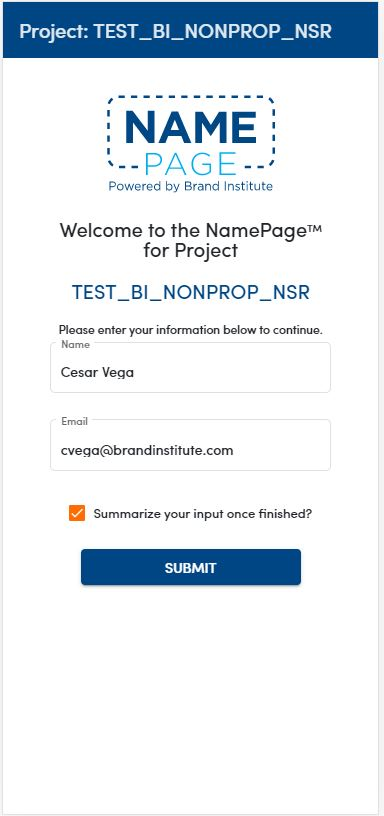
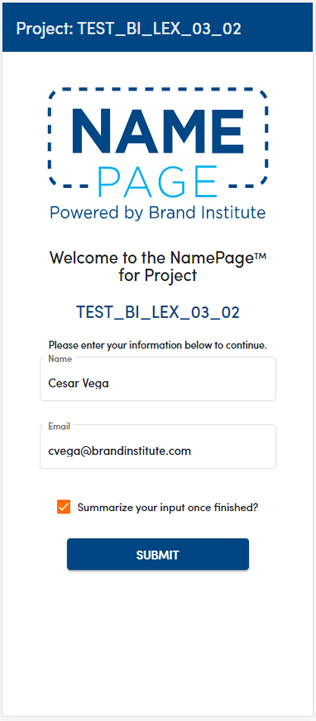
bsr mobile card eleveation center body like a cell phone looking

diff --git a/src/app/bsr/bsr.component.ts b/src/app/bsr/bsr.component.ts
@@ -34,6 +34,8 @@ export class BsrComponent implements OnInit {
   isSearching = false;
   overview = false;
   isNSR = false;
+  isScreenButton = true;
+  isScreeningNames = false;
   slideBackground = 'url(http://www.bipresents.com/';
   baseBackgroundUrl = 'url(http://www.bipresents.com/';
   myControl = new FormControl();
@@ -346,18 +348,21 @@ export class BsrComponent implements OnInit {
       this.myMaxRightWith = '-1px';
       this.nameBox = false;
       this.nameBoxB = false;
+      this.isScreenButton = false;
     } else if (value <= 51 && value > 25) {
       this.myMaxWith = '925px';
       this.myMaxRWith = '340px';
       this.myMaxRightWith = '8px';
       this.nameBox = true;
       this.nameBoxB = true;
+      this.isScreenButton = true;
     } else if (value <= 25) {
       this.myMaxWith = '335px';
       this.myMaxRWith = '636px';
       this.myMaxRightWith = '352px';
       this.nameBox = true;
       this.nameBoxB = false;
+      this.isScreenButton = true;
     }
   }
 
@@ -383,8 +388,18 @@ export class BsrComponent implements OnInit {
     } else {
       this.postItListTheme = 'post-it-list-theme'
     }
-    localStorage.setItem('post-it-list-theme', this.postItListTheme)
+    localStorage.setItem('post-it-list-theme', this.postItListTheme);
+    let audio = new Audio();
+    audio.src = "../../../assets/sound/tap.wav";
+    audio.volume = 0.2;
+    audio.load();
+    audio.play();
   }
+
+  screenNames(){
+    this.isScreeningNames = !this.isScreeningNames;
+  }
+
 }
 
 
@@ -573,38 +588,6 @@ export class editPost {
         this.dataSource.push({ position: counter, synonyms: synonym.word, weight: 1.0079, symbol: 'H' })
         counter++;
       });
-      // this.dataSource = [
-      //   {position: 1, synonyms: 'Hydrogen', weight: 1.0079, symbol: 'H'},
-      //   {position: 2, synonyms: 'Helium', weight: 4.0026, symbol: 'He'},
-      //   {position: 3, synonyms: 'Lithium', weight: 6.941, symbol: 'Li'},
-      //   {position: 4, synonyms: 'Beryllium', weight: 9.0122, symbol: 'Be'},
-      //   {position: 5, synonyms: 'Boron', weight: 10.811, symbol: 'B'},
-      //   {position: 6, synonyms: 'Carbon', weight: 12.0107, symbol: 'C'},
-      //   {position: 7, synonyms: 'Nitrogen', weight: 14.0067, symbol: 'N'},
-      //   {position: 8, synonyms: 'Oxygen', weight: 15.9994, symbol: 'O'},
-      //   {position: 9, synonyms: 'Fluorine', weight: 18.9984, symbol: 'F'},
-      //   {position: 10, synonyms: 'Neon', weight: 20.1797, symbol: 'Ne'},
-      //   {position: 1, synonyms: 'Hydrogen', weight: 1.0079, symbol: 'H'},
-      //   {position: 2, synonyms: 'Helium', weight: 4.0026, symbol: 'He'},
-      //   {position: 3, synonyms: 'Lithium', weight: 6.941, symbol: 'Li'},
-      //   {position: 4, synonyms: 'Beryllium', weight: 9.0122, symbol: 'Be'},
-      //   {position: 5, synonyms: 'Boron', weight: 10.811, symbol: 'B'},
-      //   {position: 6, synonyms: 'Carbon', weight: 12.0107, symbol: 'C'},
-      //   {position: 7, synonyms: 'Nitrogen', weight: 14.0067, symbol: 'N'},
-      //   {position: 8, synonyms: 'Oxygen', weight: 15.9994, symbol: 'O'},
-      //   {position: 9, synonyms: 'Fluorine', weight: 18.9984, symbol: 'F'},
-      //   {position: 10, synonyms: 'Neon', weight: 20.1797, symbol: 'Ne'},
-      //   {position: 1, synonyms: 'Hydrogen', weight: 1.0079, symbol: 'H'},
-      //   {position: 2, synonyms: 'Helium', weight: 4.0026, symbol: 'He'},
-      //   {position: 3, synonyms: 'Lithium', weight: 6.941, symbol: 'Li'},
-      //   {position: 4, synonyms: 'Beryllium', weight: 9.0122, symbol: 'Be'},
-      //   {position: 5, synonyms: 'Boron', weight: 10.811, symbol: 'B'},
-      //   {position: 6, synonyms: 'Carbon', weight: 12.0107, symbol: 'C'},
-      //   {position: 7, synonyms: 'Nitrogen', weight: 14.0067, symbol: 'N'},
-      //   {position: 8, synonyms: 'Oxygen', weight: 15.9994, symbol: 'O'},
-      //   {position: 9, synonyms: 'Fluorine', weight: 18.9984, symbol: 'F'},
-      //   {position: 10, synonyms: 'Neon', weight: 20.1797, symbol: 'Ne'},
-      // ]
       console.log(res);
     })
   }

diff --git a/src/app/bsr/bsr.component.html b/src/app/bsr/bsr.component.html
@@ -90,11 +90,13 @@
 
         <div class="container">
           <div class="row">
+
             <div class="col-md-12">
               <!-- Brandstomr and Names toolbar -->
               <mat-toolbar class="toptoolbar mat-elevation-z4" color="primary">
                 <div class="row">
-                  <div (click)="theme()" class="col brandstorm" style="color: white; font-size: 40px;font-family: Arial">
+                  <div (click)="theme()" class="col brandstorm"
+                    style="color: white; font-size: 40px;font-family: Arial">
                     Brandstorm
                   </div>
                   <div class="col" (click)="toggleNamebox()"
@@ -102,6 +104,7 @@
                     [matTooltip]="'Names Create '+ nameCandidates.length" matTooltipPosition="right">
                     Names <span *ngIf="nameCandidates.length > 0">{{':'+nameCandidates.length}}</span>
                   </div>
+                  <button *ngIf="isScreenButton" (click)="screenNames()" mat-raised-button class="screen-button">screen</button>
                 </div>
               </mat-toolbar>
             </div>
@@ -150,14 +153,20 @@
                   (input)="onInputChange($event)"></mat-slider>
                 <div class="col-md-4" *ngIf="nameBox && nameBoxB">
                   <!-- NAMES  nameCandidates BOX -->
-                  <button mat-button class="screen-button">screen</button>
+                  <!-- <button mat-button class="screen-button">screen</button> -->
                   <div class="names-container bounceOut" [ngStyle]="{'max-width': myMaxRWith  }">
-                    <div *ngFor="let  item of nameCandidates; let i = index">
-                      <span (dblclick)="openDialog(item, 'deleteName')"
-                        style="font-size:22px;margin: 10px;cursor: pointer;overflow: scroll;" [matTooltip]="item.Source"
-                        matTooltipPosition="right">
-                        {{item.Name}}
+                    <div *ngFor="let  nameCandidate of nameCandidates; let i = index">
+                      <span *ngIf="!isScreeningNames" (dblclick)="openDialog(nameCandidate, 'deleteName')"
+                        style="font-size:22px;margin: 10px;cursor: pointer;overflow: scroll;"
+                        [matTooltip]="nameCandidate.Source" matTooltipPosition="right">
+                        {{nameCandidate.Name}}
                       </span>
+                      <span *ngIf="isScreeningNames" [innerHTML]="nameCandidate.html.replaceAll('\\',' ')"
+                        (dblclick)="openDialog(nameCandidate, 'deleteName')"
+                        style="font-size:22px;margin: 10px;cursor: pointer;overflow: scroll;"
+                        [matTooltip]="nameCandidate.Source" matTooltipPosition="right">
+                      </span>
+                      <div style="border-bottom: rgba(0,0,0,.12) 1px solid;width: 100%;text-align: center;"></div>
                     </div>
                   </div>
 
@@ -181,7 +190,7 @@
 
                 <div class="col-md-4 " *ngIf="!nameBox && nameBoxB">
                   <!-- NAMES BOX -->
-                  <button mat-button class="screen-button">screen</button>
+                  <!-- <button mat-button class="screen-button">screen</button> -->
                   <div class="names-container3 bounceIn">
                     <div *ngFor="let  item of nameCandidates; let i = index">
                       <span (dblclick)="openDialog(item, 'deleteName')"
@@ -211,7 +220,7 @@
 
                 <div class="col-md-4 " *ngIf="nameBox && !nameBoxB">
                   <!-- NAMES BOX -->
-                  <button mat-button class="screen-button">screen</button>
+                  <!-- <button mat-button class="screen-button">screen</button> -->
                   <div class="names-container2 bounceIn">
                     <div *ngFor="let  item of nameCandidates; let i = index">
                       <span (dblclick)="openDialog(item, 'deleteName')"

diff --git a/src/app/bsr/editPost-it.html b/src/app/bsr/editPost-it.html
@@ -30,13 +30,14 @@
                         color="success" aria-label="icon">
                         <mat-icon>check</mat-icon>
                     </button><br>
-                    <div style="color: #000;">delete</div>
+                   
                     <button *ngIf="!isDeleting && !isDeletingName" (click)="buttonOption('deleteName')"
                         class="refreshbutton" mat-mini-fab
                         style="color: white;background-color: red;padding: 4px;outline: none;" color="success"
                         aria-label="icon">
                         <mat-icon>delete</mat-icon>
                     </button>
+                    <div style="color: #000;">delete</div>
                 </div>
             </div>
         </div>
@@ -44,14 +45,14 @@
 
     </div>
     <!-- MOBILE INFO PICTURE DISPLAY -->
-    <div *ngIf="isMobileInfo" style="height: 300px;text-align: center;font-size-adjust: 100px;">
+    <div *ngIf="isMobileInfo">
 
         <div class="row" layout-align="center center">
 
-            <div flex="" class="text-center flex" style="margin:0 10px">
+            <div flex="" class="text-center flex" style="margin:0 18px">
                 <p>1. Access
                     www.mynamepage.com/ti823</p>
-                <img class="instruction-style" src="assets/img/bsr/login_page.png" alt="Login">
+                <img class="instruction-style mat-elevation-z4" src="assets/img/bsr/login_page.JPG" alt="Login">
             </div>
             <div flex="" class="text-center flex" style="margin-right:10px">
                 <p>2.
@@ -78,7 +79,7 @@
 
         <div ng-hide="!bsrMenubarController.isItNSR" class="nonprop-name-rule-style" aria-hidden="false">
 
-            <h4>
+            <!-- <h4>
                 The letters h, j, k, w, and y should be avoided
             </h4>
 
@@ -165,7 +166,7 @@
                 <li type="square" style="padding-left:30px;">
                     the name of the manufacturer
                 </li>
-            </ul>
+            </ul> -->
         </div>
     </div>
 

diff --git a/src/app/bsr-mobile/bsr-mobile.component.scss b/src/app/bsr-mobile/bsr-mobile.component.scss
@@ -12,6 +12,12 @@
         align-items: center;
         white-space: nowrap;
     }
+    .bsr-mobile-container {
+        max-width: 400px;
+        position: relative;
+        min-height: 811px;
+        top: 100px;
+    }
 
     #login {
         width: 100%;
@@ -29,7 +35,7 @@
                 text-align: center;
 
                 .logo {
-                    width: 180px;
+                    width: 286px;
                 }
 
                 .title {

diff --git a/src/app/app.module.ts b/src/app/app.module.ts
@@ -74,7 +74,7 @@ import { MatTableModule } from '@angular/material/table';
 
   ],
   entryComponents: [
-    editPost,
+    editPost,editName
   ],
   providers: [NwvoteService, BsrMobileService],
   bootstrap: [AppComponent]

diff --git a/src/app/bsr-mobile/bsr-mobile.component.html b/src/app/bsr-mobile/bsr-mobile.component.html
@@ -1,4 +1,4 @@
-<div class="container">
+<div class="container mat-elevation-z4 bsr-mobile-container" >
     <div class="row">
 
         <mat-toolbar class="toolbar " fxLayoutAlign="space-between center">

diff --git a/src/app/bsr/bsr.component.scss b/src/app/bsr/bsr.component.scss
@@ -491,9 +491,9 @@ mat-slider {
 }
 
 .screen-button {
-  position: fixed;
-  top: 124px;
-  left: 1143px;
+  position: absolute;
+  top: 60px;
+  right: 17px;
   z-index: 999999;
 }
 
